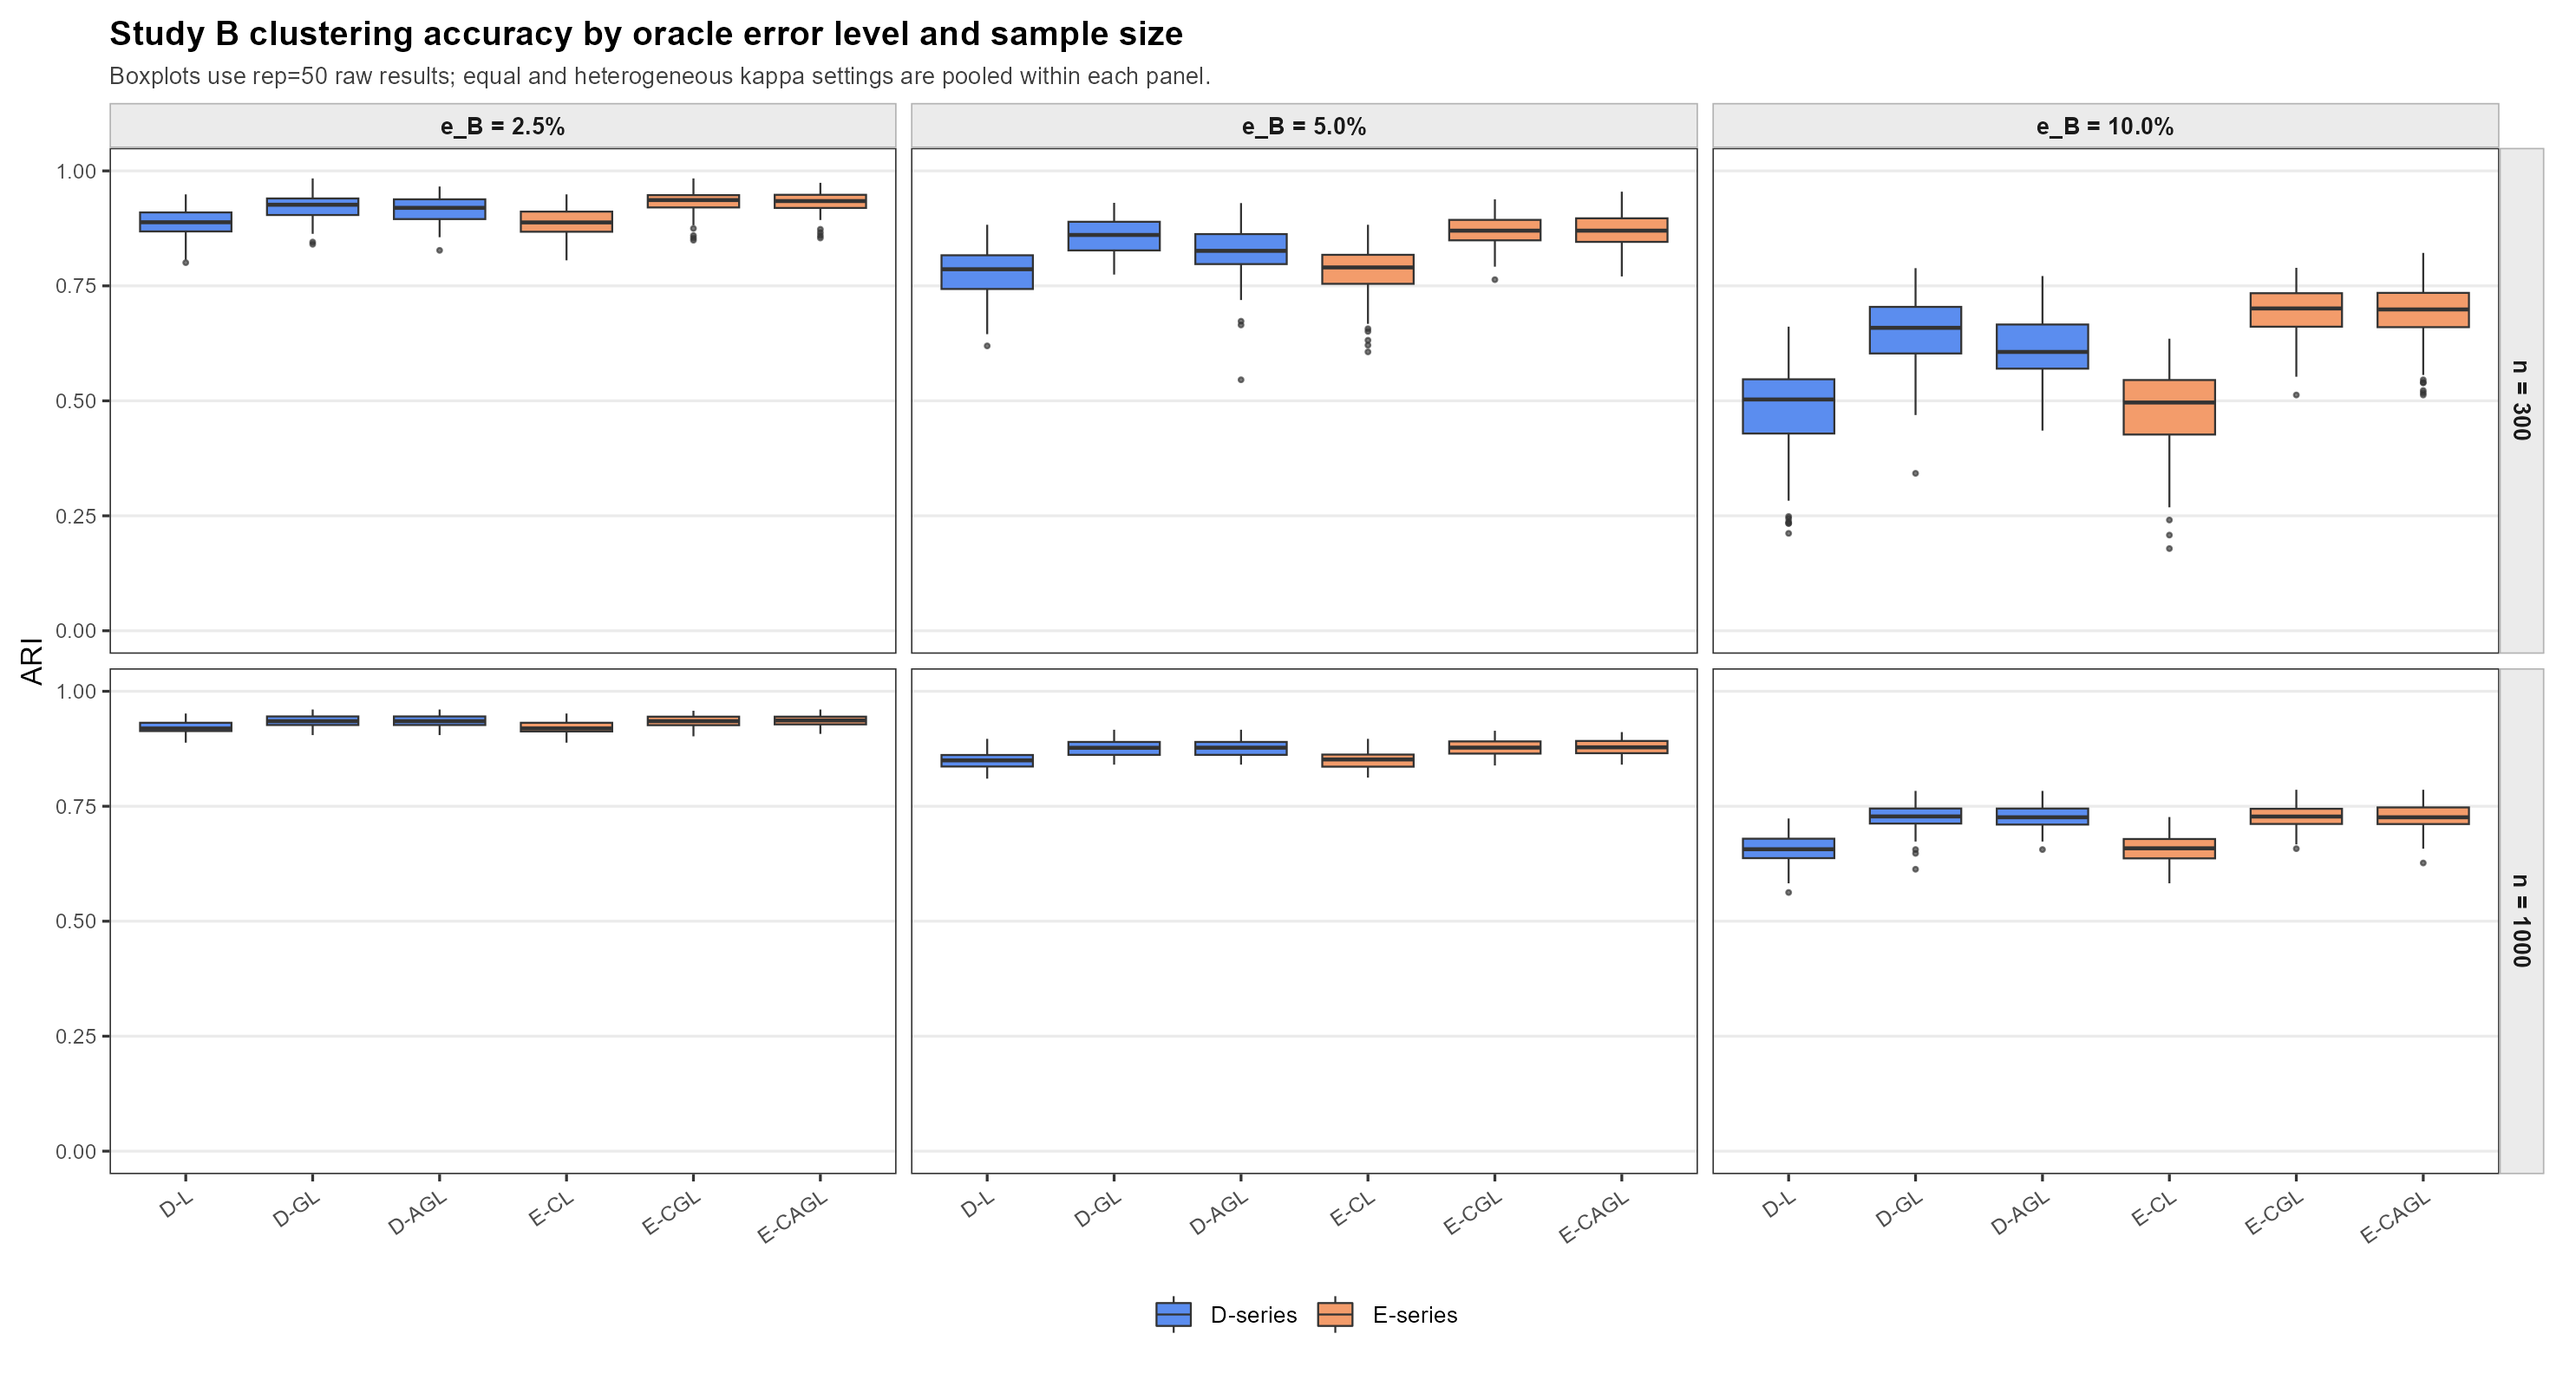
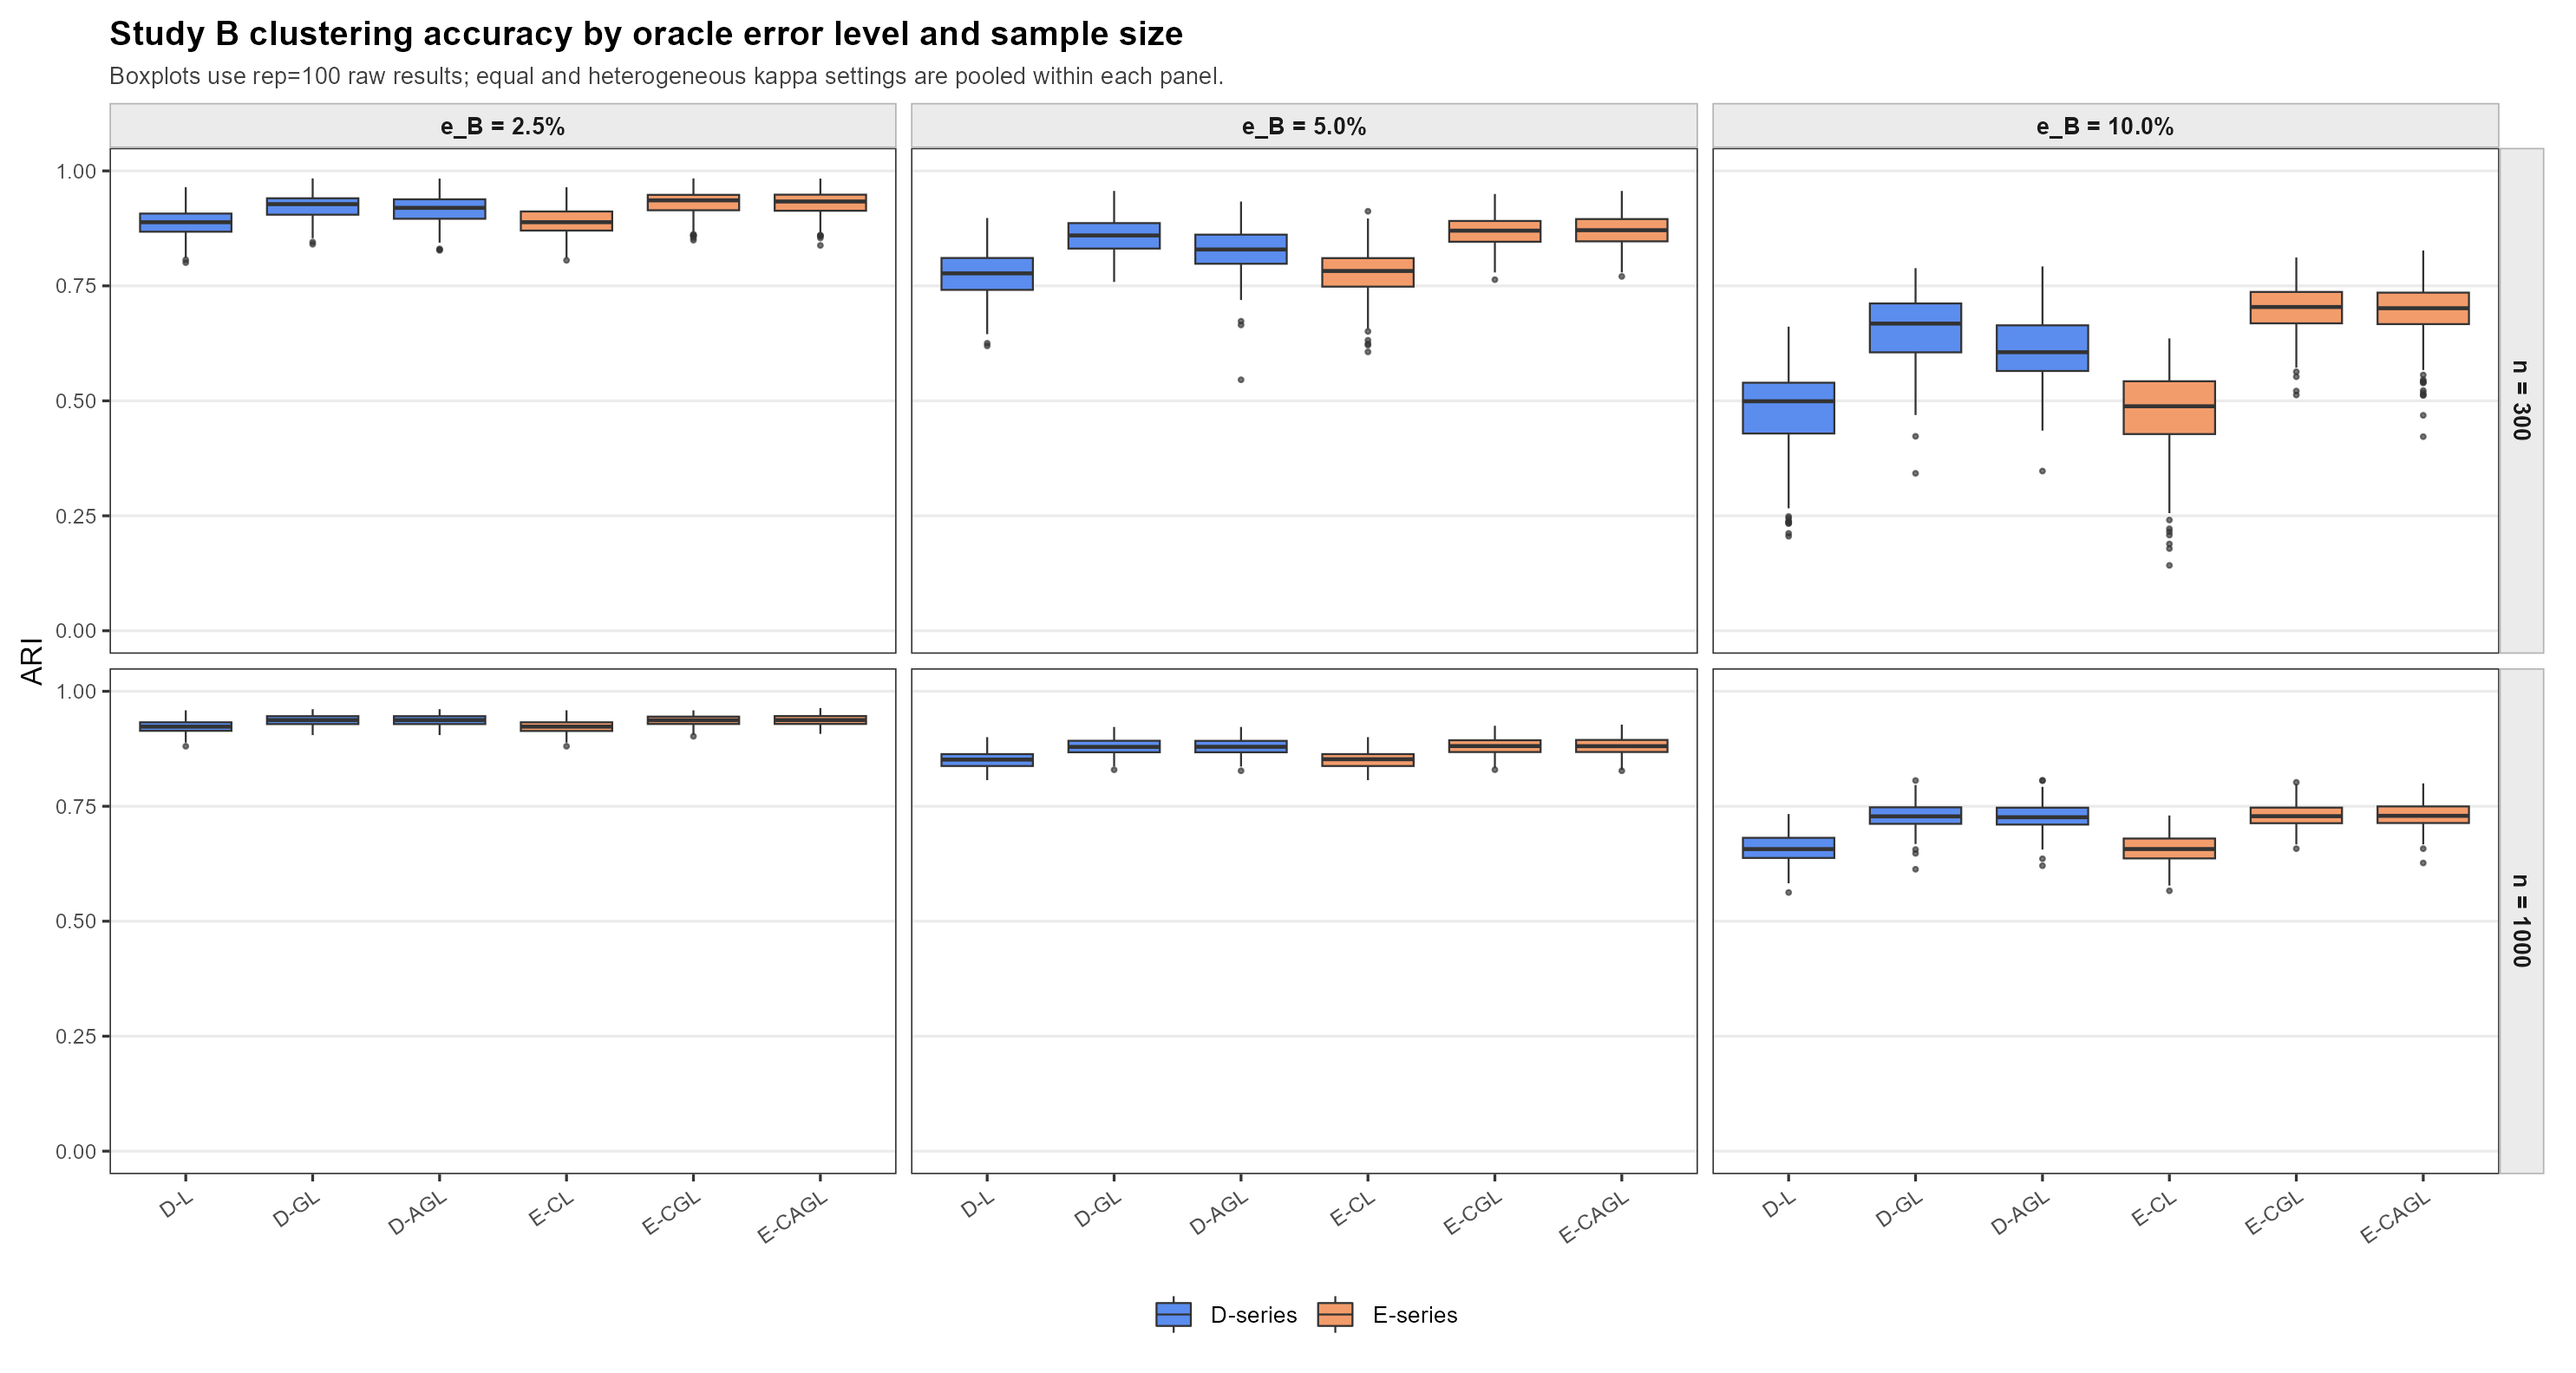
Update Study B rep100 results

diff --git a/docs/meetings/thesis-meeting_260708.md b/docs/meetings/thesis-meeting_260708.md
@@ -273,26 +273,26 @@ S1-S4에서는 E-CAGL이 clustering 성능을 유지하면서 selected q를 true
 
 ### 3.2 Oracle Bayes error 기반 Study B 난이도 진단
 
-S1-S6은 평균 방향 각도로 난이도를 정한 진단이고, Study B는 true parameter에서 계산한 oracle Bayes error \(e_B\)로 군집 분리 난이도를 맞춘 예비 결과다. 설정은 \(K=4\), \(d=200\), \(n\in\{300,1000\}\), common q=4, decision q=16, noise q=180, path length=240, rep=50이다.
+S1-S6은 평균 방향 각도로 난이도를 정한 진단이고, Study B는 true parameter에서 계산한 oracle Bayes error \(e_B\)로 군집 분리 난이도를 맞춘 결과다. 설정은 \(K=4\), \(d=200\), \(n\in\{300,1000\}\), common q=4, decision q=16, noise q=180, path length=240, rep=100이다.
 
 | target \(e_B\) | kappa | achieved \(e_B\) | n | E-CAGL selected q | common q | decision q | noise q | F1 | ARI |
 |:---:|:---|---:|---:|---:|---:|---:|---:|---:|---:|
-| 2.5% | equal | 2.42% | 300 | 17.92 | 0.00 | 16.00 | 1.92 | 0.943 | 0.931 |
-| 2.5% | heterogeneous | 2.54% | 300 | 18.00 | 0.02 | 16.00 | 1.98 | 0.941 | 0.933 |
-| 2.5% | equal | 2.42% | 1000 | 16.04 | 0.00 | 16.00 | 0.04 | 0.999 | 0.935 |
-| 2.5% | heterogeneous | 2.54% | 1000 | 16.04 | 0.00 | 16.00 | 0.04 | 0.999 | 0.935 |
-| 5.0% | equal | 4.58% | 300 | 16.76 | 0.00 | 16.00 | 0.76 | 0.977 | 0.875 |
-| 5.0% | heterogeneous | 4.54% | 300 | 18.24 | 0.04 | 16.00 | 2.20 | 0.935 | 0.868 |
-| 5.0% | equal | 4.58% | 1000 | 16.12 | 0.00 | 16.00 | 0.12 | 0.996 | 0.879 |
-| 5.0% | heterogeneous | 4.54% | 1000 | 16.06 | 0.00 | 16.00 | 0.06 | 0.998 | 0.876 |
-| 10.0% | equal | 11.24% | 300 | 16.98 | 0.00 | 15.54 | 1.44 | 0.942 | 0.700 |
-| 10.0% | heterogeneous | 10.52% | 300 | 21.48 | 0.12 | 14.88 | 6.48 | 0.794 | 0.681 |
-| 10.0% | equal | 11.24% | 1000 | 16.24 | 0.00 | 16.00 | 0.24 | 0.993 | 0.720 |
-| 10.0% | heterogeneous | 10.52% | 1000 | 21.66 | 0.18 | 16.00 | 5.48 | 0.850 | 0.735 |
+| 2.5% | equal | 2.42% | 300 | 17.97 | 0.03 | 16.00 | 1.94 | 0.942 | 0.930 |
+| 2.5% | heterogeneous | 2.54% | 300 | 18.23 | 0.02 | 16.00 | 2.21 | 0.935 | 0.931 |
+| 2.5% | equal | 2.42% | 1000 | 16.05 | 0.00 | 16.00 | 0.05 | 0.998 | 0.936 |
+| 2.5% | heterogeneous | 2.54% | 1000 | 16.03 | 0.00 | 16.00 | 0.03 | 0.999 | 0.938 |
+| 5.0% | equal | 4.58% | 300 | 16.73 | 0.03 | 16.00 | 0.70 | 0.978 | 0.874 |
+| 5.0% | heterogeneous | 4.54% | 300 | 17.95 | 0.04 | 16.00 | 1.91 | 0.943 | 0.866 |
+| 5.0% | equal | 4.58% | 1000 | 16.09 | 0.00 | 16.00 | 0.09 | 0.997 | 0.880 |
+| 5.0% | heterogeneous | 4.54% | 1000 | 16.06 | 0.00 | 16.00 | 0.06 | 0.998 | 0.880 |
+| 10.0% | equal | 11.24% | 300 | 16.92 | 0.02 | 15.55 | 1.35 | 0.945 | 0.703 |
+| 10.0% | heterogeneous | 10.52% | 300 | 19.49 | 0.09 | 14.92 | 4.48 | 0.841 | 0.683 |
+| 10.0% | equal | 11.24% | 1000 | 16.20 | 0.01 | 16.00 | 0.19 | 0.994 | 0.722 |
+| 10.0% | heterogeneous | 10.52% | 1000 | 18.94 | 0.09 | 16.00 | 2.85 | 0.916 | 0.741 |
 
-\(e_B=2.5\%\)와 \(e_B=5\%\)에서는 n=1000 기준 E-CAGL이 selected q를 true decision q=16 근처로 맞추고 common q를 거의 선택하지 않았다. \(e_B=10\%\)에서는 ARI가 낮아지고, heterogeneous kappa 조건에서 noise q가 증가했다. 이 결과는 표본 수, 분리 난이도, 집중도 차이가 support recovery에 함께 영향을 준다는 점을 보여준다.
+\(e_B=2.5\%\)와 \(e_B=5\%\)에서는 n=1000 기준 E-CAGL이 selected q를 true decision q=16 근처로 맞추고 common q를 거의 선택하지 않았다. \(e_B=10\%\)에서는 ARI가 낮아졌고, heterogeneous kappa 조건에서 noise q가 증가했다. 이 결과는 표본 수, 분리 난이도, 집중도 차이가 support recovery에 함께 영향을 준다는 점을 보여준다.
 
-아래 boxplot은 rep=50 raw 결과를 사용했다. 열은 target \(e_B\), 행은 sample size \(n\)이다. equal kappa와 heterogeneous kappa 결과는 각 panel 안에 함께 포함했다.
+아래 boxplot은 rep=100 raw 결과를 사용했다. 열은 target \(e_B\), 행은 sample size \(n\)이다. equal kappa와 heterogeneous kappa 결과는 각 panel 안에 함께 포함했다.
 
 ![Study B F1 boxplot](../simulations/figures/studyb_boxplot_f1_by_eb_n_260714.png)
 

diff --git a/results/paper_eta_oracle_bayes_studyb_difficulty_rep100_path240_260714/paper_eta_oracle_bayes_studyb_difficulty_rep100_path240_notes.md b/results/paper_eta_oracle_bayes_studyb_difficulty_rep100_path240_260714/paper_eta_oracle_bayes_studyb_difficulty_rep100_path240_notes.md
@@ -1,0 +1,25 @@
+# Study B rep=100 summary 260714
+
+This file summarizes all six completed Study B rep=100 cells.
+
+## Completed cells
+
+- n=300 and n=1000 for target e_B=2.5%, 5.0%, and 10.0%.
+- Each cell includes equal kappa and heterogeneous kappa scenarios.
+
+## E-AGL completed-cell summary
+
+| target e_B | scenario | n | achieved e_B | selected q | common q | decision q | noise q | F1 | ARI | MSE_eta |
+|:---:|:---|---:|---:|---:|---:|---:|---:|---:|---:|---:|
+| 2.5% | OBE5_equal_kappa | 1000 | 0.0242 | 16.05 | 0.00 | 16.00 | 0.05 | 0.998 | 0.936 | 0.054 |
+| 2.5% | OBE5_heterogeneous_kappa | 1000 | 0.0254 | 16.03 | 0.00 | 16.00 | 0.03 | 0.999 | 0.938 | 0.052 |
+| 2.5% | OBE5_equal_kappa | 300 | 0.0242 | 17.97 | 0.03 | 16.00 | 1.94 | 0.942 | 0.930 | 0.253 |
+| 2.5% | OBE5_heterogeneous_kappa | 300 | 0.0254 | 18.23 | 0.02 | 16.00 | 2.21 | 0.935 | 0.931 | 0.260 |
+| 5.0% | OBE5_equal_kappa | 1000 | 0.0458 | 16.09 | 0.00 | 16.00 | 0.09 | 0.997 | 0.880 | 0.059 |
+| 5.0% | OBE5_heterogeneous_kappa | 1000 | 0.0454 | 16.06 | 0.00 | 16.00 | 0.06 | 0.998 | 0.880 | 0.056 |
+| 5.0% | OBE5_equal_kappa | 300 | 0.0458 | 16.73 | 0.03 | 16.00 | 0.70 | 0.978 | 0.874 | 0.222 |
+| 5.0% | OBE5_heterogeneous_kappa | 300 | 0.0454 | 17.95 | 0.04 | 16.00 | 1.91 | 0.943 | 0.866 | 0.271 |
+| 10.0% | OBE5_equal_kappa | 1000 | 0.1124 | 16.20 | 0.01 | 16.00 | 0.19 | 0.994 | 0.722 | 0.070 |
+| 10.0% | OBE5_heterogeneous_kappa | 1000 | 0.1052 | 18.94 | 0.09 | 16.00 | 2.85 | 0.916 | 0.741 | 0.093 |
+| 10.0% | OBE5_equal_kappa | 300 | 0.1124 | 16.92 | 0.02 | 15.55 | 1.35 | 0.945 | 0.703 | 0.355 |
+| 10.0% | OBE5_heterogeneous_kappa | 300 | 0.1052 | 19.49 | 0.09 | 14.92 | 4.48 | 0.841 | 0.683 | 0.780 |
